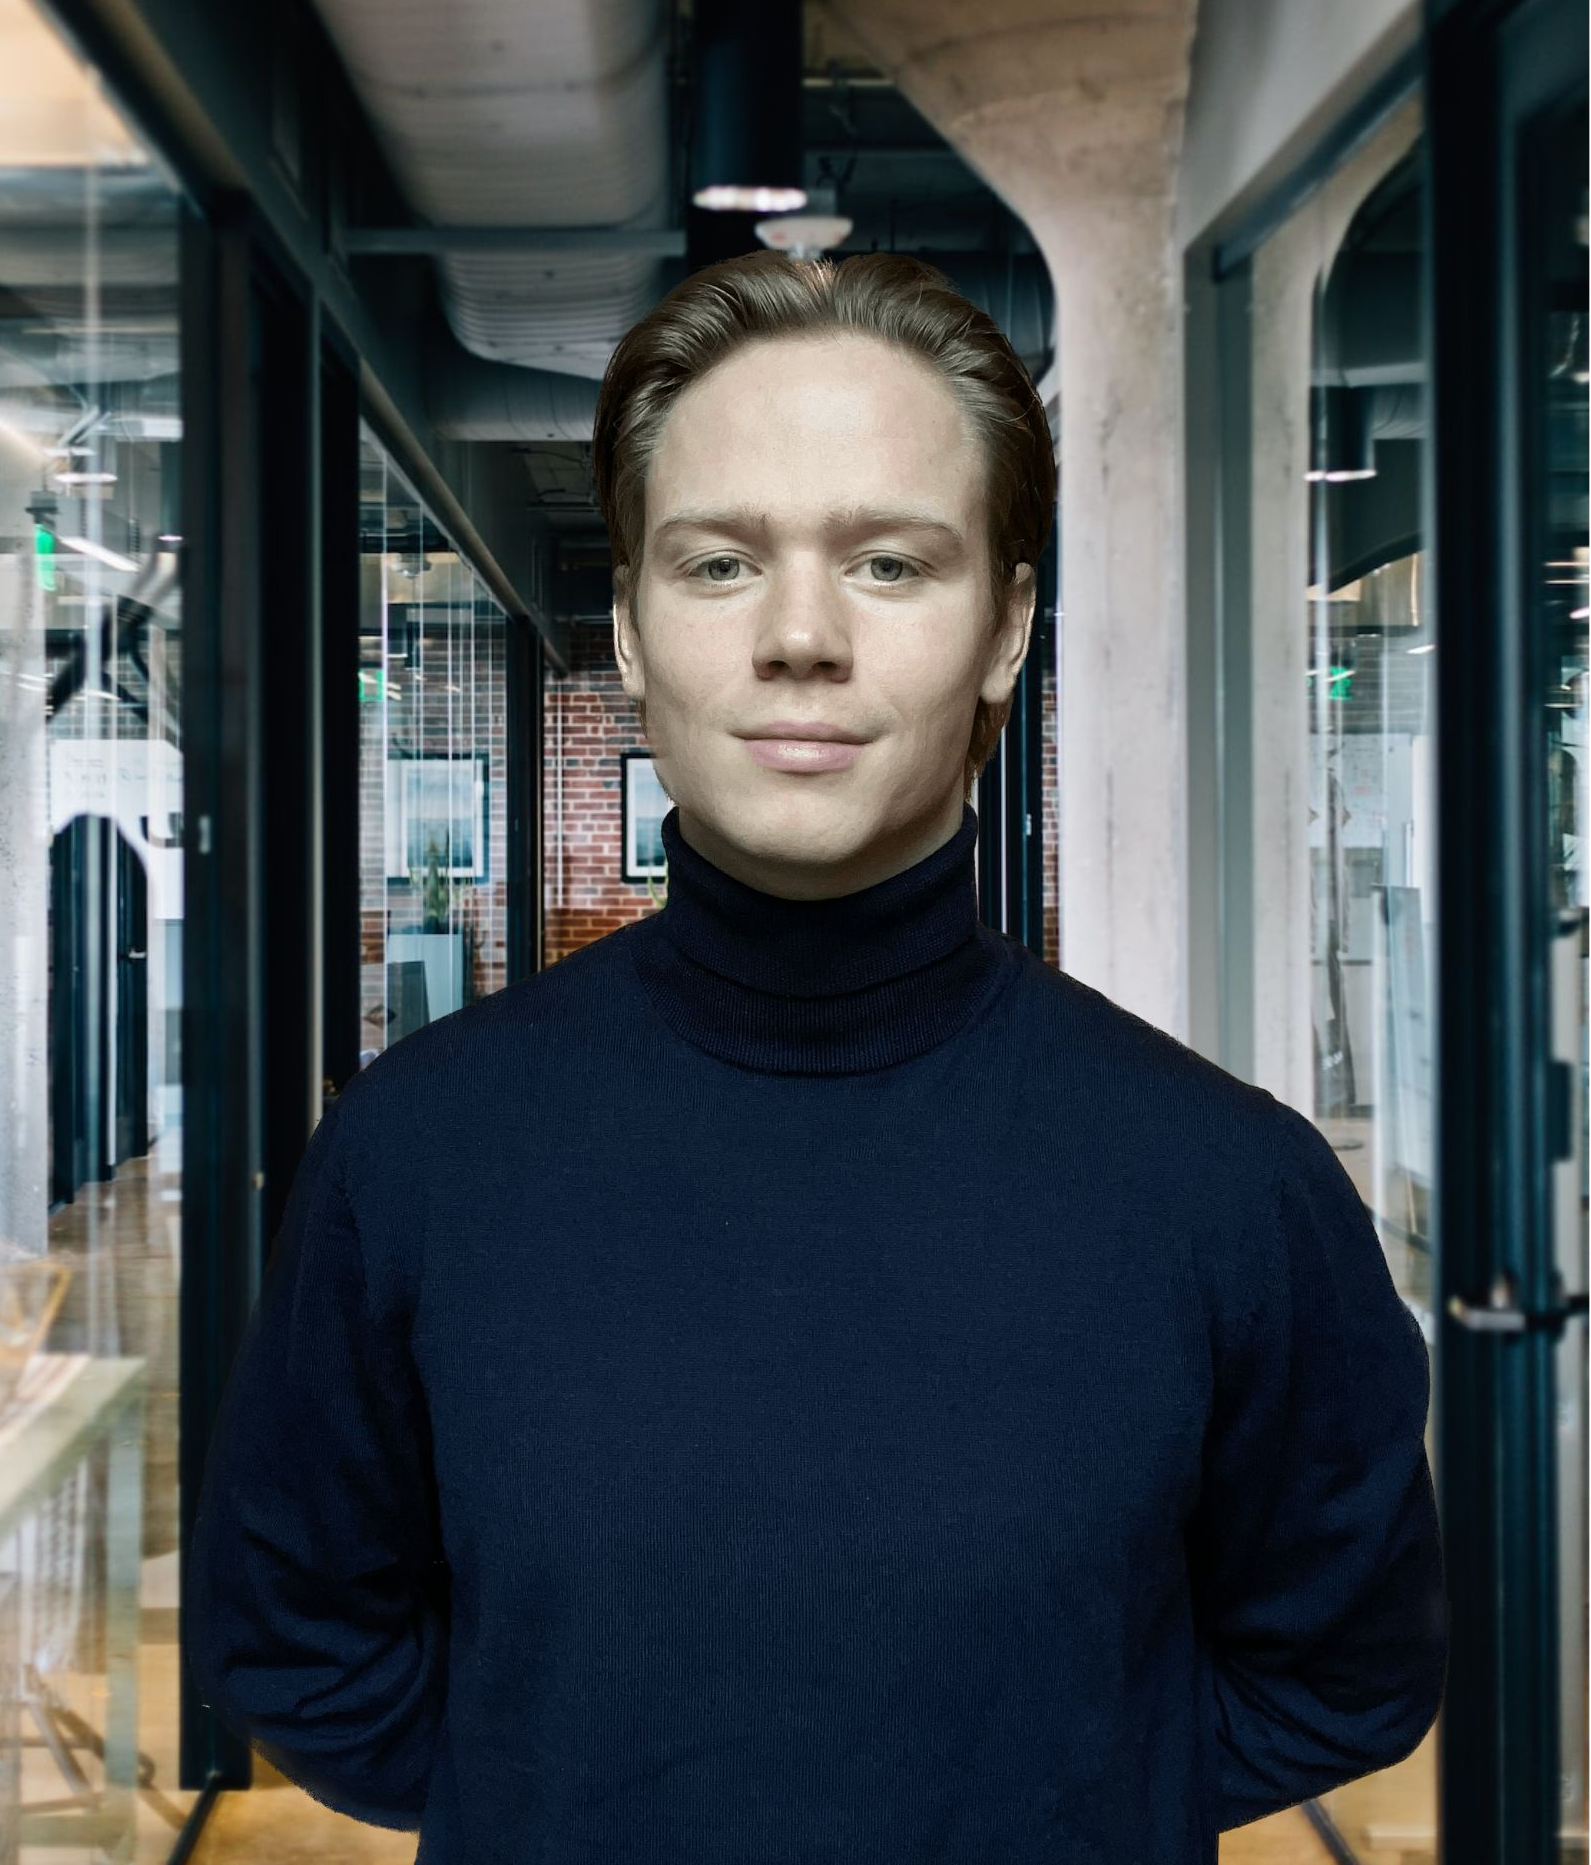
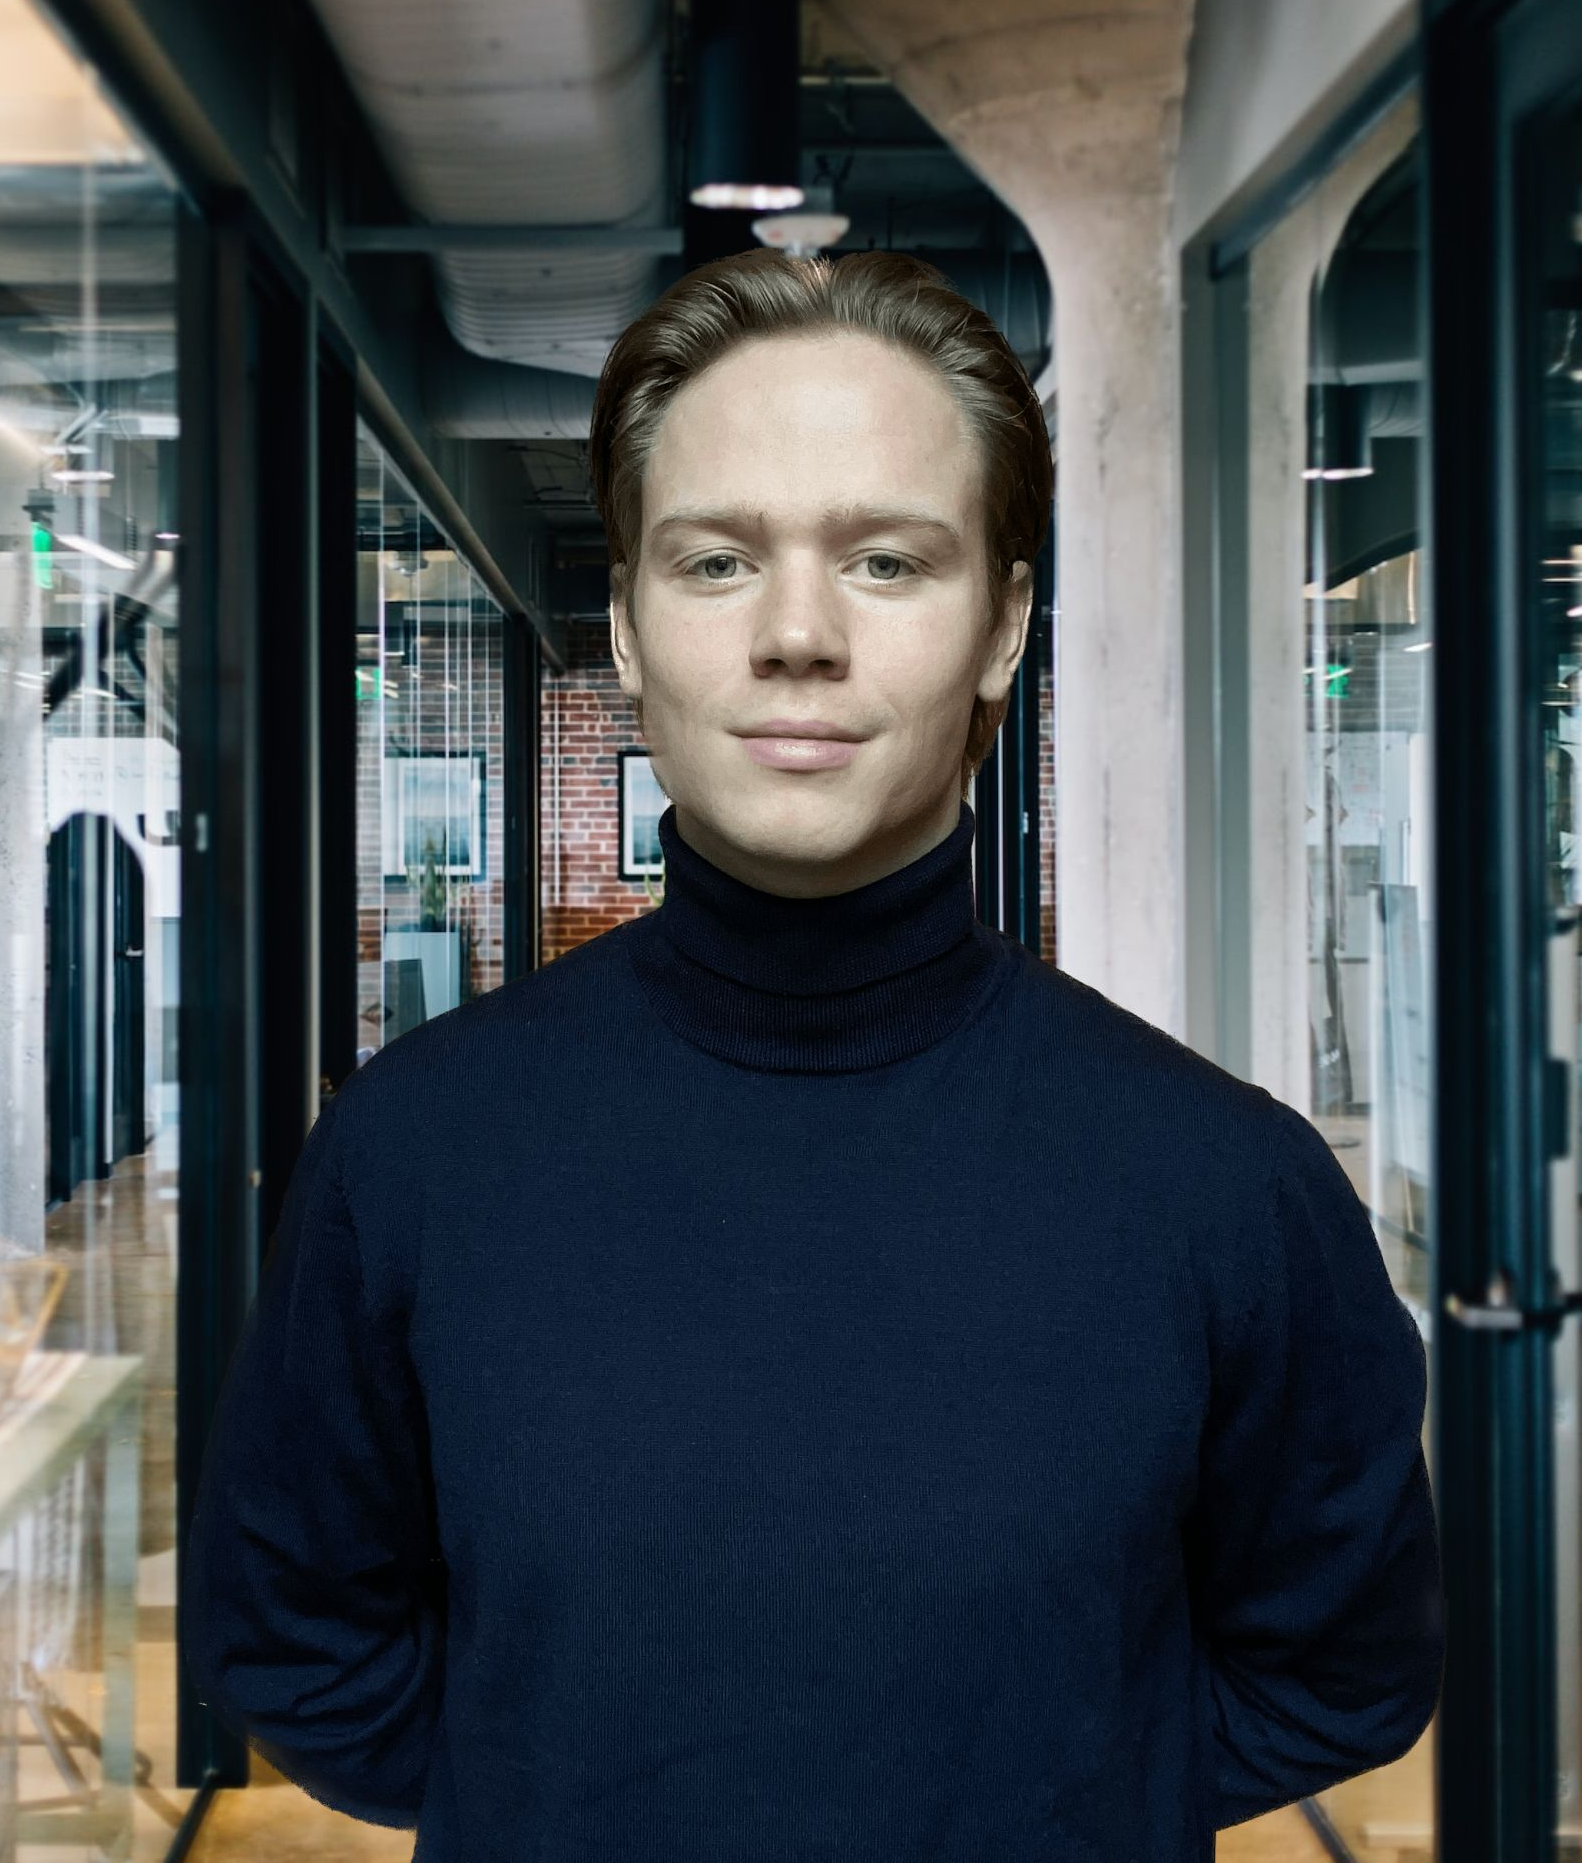
Beauty Touches

diff --git a/index.html b/index.html
@@ -23,7 +23,7 @@
         <!--==================== HEADER ====================-->
         <header class="header" id="header">
             <nav class="nav container">
-                <a href="#" class="nav__logo">Karl Holst</a>
+                <a href="#" class="nav__logo">Karl Martin Holst</a>
 
                 <div class="nav__menu" id="nav-menu">
                     <ul class="nav__list grid">
@@ -103,7 +103,7 @@
                                     -0.149132 97.9666 0.00163737C136.23 0.303176 174.193 10.857 190.312 36.4879Z"/>
 
                           
-                                    <image class="home__blob-img" x="-55" y="-85" href="assets/img/perfil.png"/>
+                                    <image class="home__blob-img" x="2" y="20" href="assets/img/perfil.png"/>
                                 </g>
                             </svg>
                         </div>
@@ -548,14 +548,7 @@
                                         <span class="recommendation__client">CTO Save Solutions AS</span>
                                     </div>
                                 </div>
-    
-                                <div>
-                                    <i class="uil uil-star recommendation__icon-star"></i>
-                                    <i class="uil uil-star recommendation__icon-star"></i>
-                                    <i class="uil uil-star recommendation__icon-star"></i>
-                                    <i class="uil uil-star recommendation__icon-star"></i>
-                                    <i class="uil uil-star recommendation__icon-star"></i>
-                                </div>
+
                             </div>
     
                             <p class="recommendation__description">Need some nice text here, need some nice text here.
@@ -576,13 +569,6 @@
                                     </div>
                                 </div>
     
-                                <div>
-                                    <i class="uil uil-star recommendation__icon-star"></i>
-                                    <i class="uil uil-star recommendation__icon-star"></i>
-                                    <i class="uil uil-star recommendation__icon-star"></i>
-                                    <i class="uil uil-star recommendation__icon-star"></i>
-                                    <i class="uil uil-star recommendation__icon-star"></i>
-                                </div>
                             </div>
     
                             <p class="recommendation__description">Need some nice text here, need some nice text here.
@@ -603,13 +589,7 @@
                                     </div>
                                 </div>
     
-                                <div>
-                                    <i class="uil uil-star recommendation__icon-star"></i>
-                                    <i class="uil uil-star recommendation__icon-star"></i>
-                                    <i class="uil uil-star recommendation__icon-star"></i>
-                                    <i class="uil uil-star recommendation__icon-star"></i>
-                                    <i class="uil uil-star recommendation__icon-star"></i>
-                                </div>
+                            
                             </div>
     
                             <p class="recommendation__description"> 
@@ -690,8 +670,7 @@
             <div class="footer__bg">
                 <div class="footer__container container grid">
                     <div>
-                        <h1 class="footer__title">Karl Holst</h1>
-                        <span class="footer__subtitle">About me page</span>
+                        <span class="footer__subtitle">Karl Martin Holst</span>
                     </div>
 
                     <ul class="footer__links">
@@ -702,7 +681,7 @@
                             <a href="#portfolio" class="footer__link">Portfolio</a>
                         </li>
                         <li>
-                            <a href="#contact" class="footer__link">Contactme</a>
+                            <a href="#contact" class="footer__link">Contact me</a>
                         </li>
                     </ul>
 
@@ -719,7 +698,7 @@
                     </div>
                 </div>
 
-                <p class="footer__copy">&#169; About Me Page : Karl Martin Holst</p>
+                <p class="footer__copy">&#169; About Me Page by Karl Martin Holst</p>
             </div>
         </footer>
 

diff --git a/assets/css/styles.css b/assets/css/styles.css
@@ -93,7 +93,7 @@ body.dark-theme {
 * {
   box-sizing: border-box;
   padding: 0;
-  margin: 0;
+  margin: 0.5;
 }
 
 html {
@@ -392,7 +392,7 @@ img {
 /*==================== ABOUT ====================*/
 .about__img {
   width: 200px;
-  border-radius: .5rem;
+  border-radius: 0.5rem;
   justify-self: center;
   align-self: center;
 }
@@ -1249,7 +1249,7 @@ img {
     grid-template-columns: repeat(2, 1fr);
   }
   h1 {
-  text-align: center;
+  text-align: left;
   margin: 35px 0 20px 0 !important;
   }
 }
